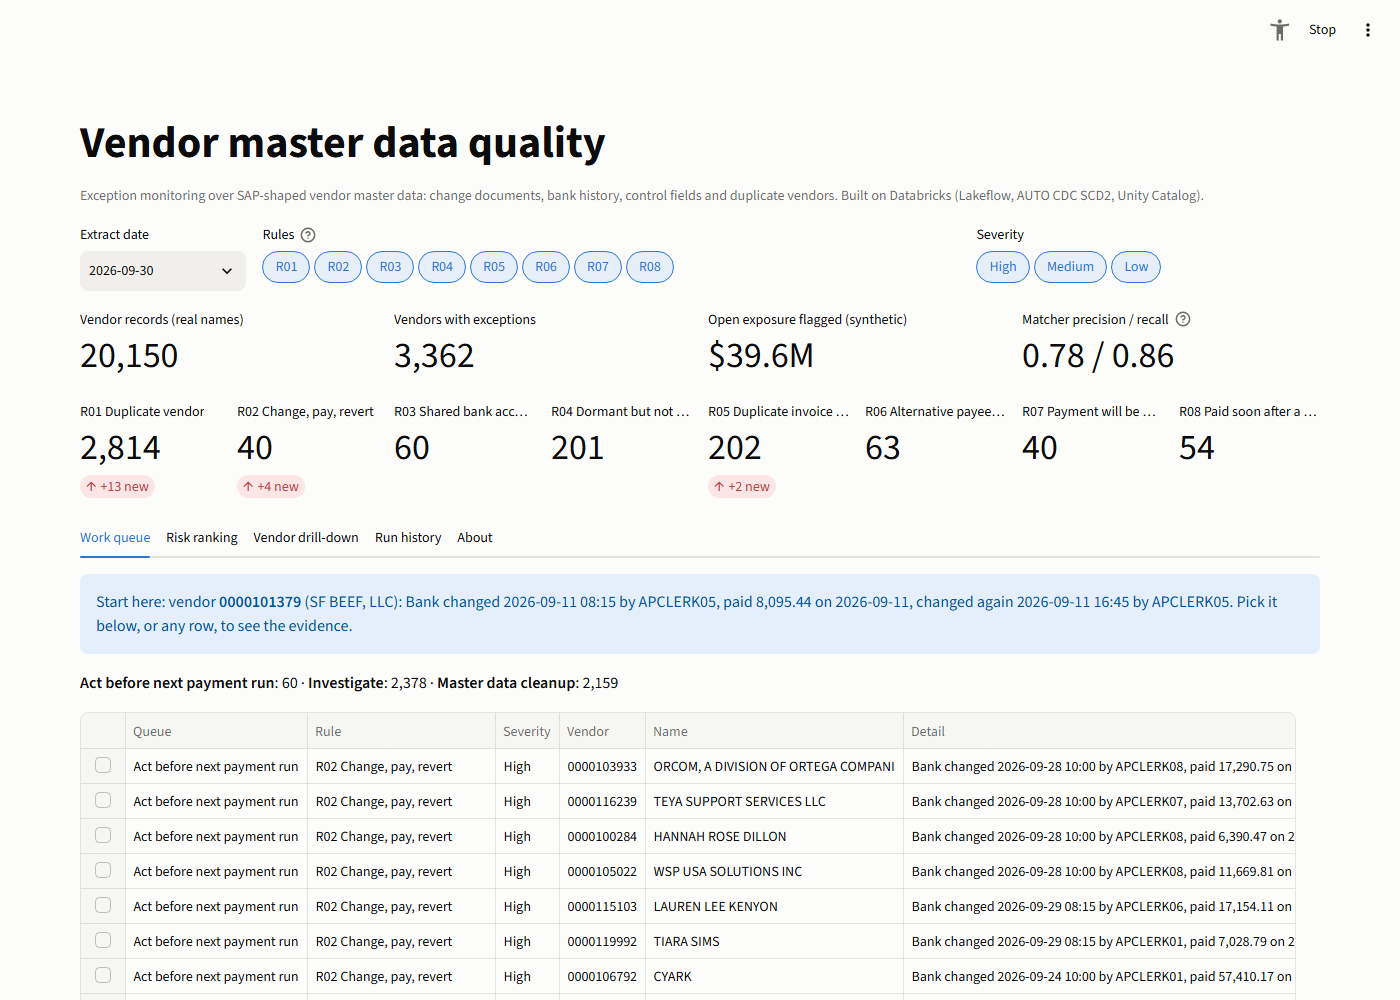
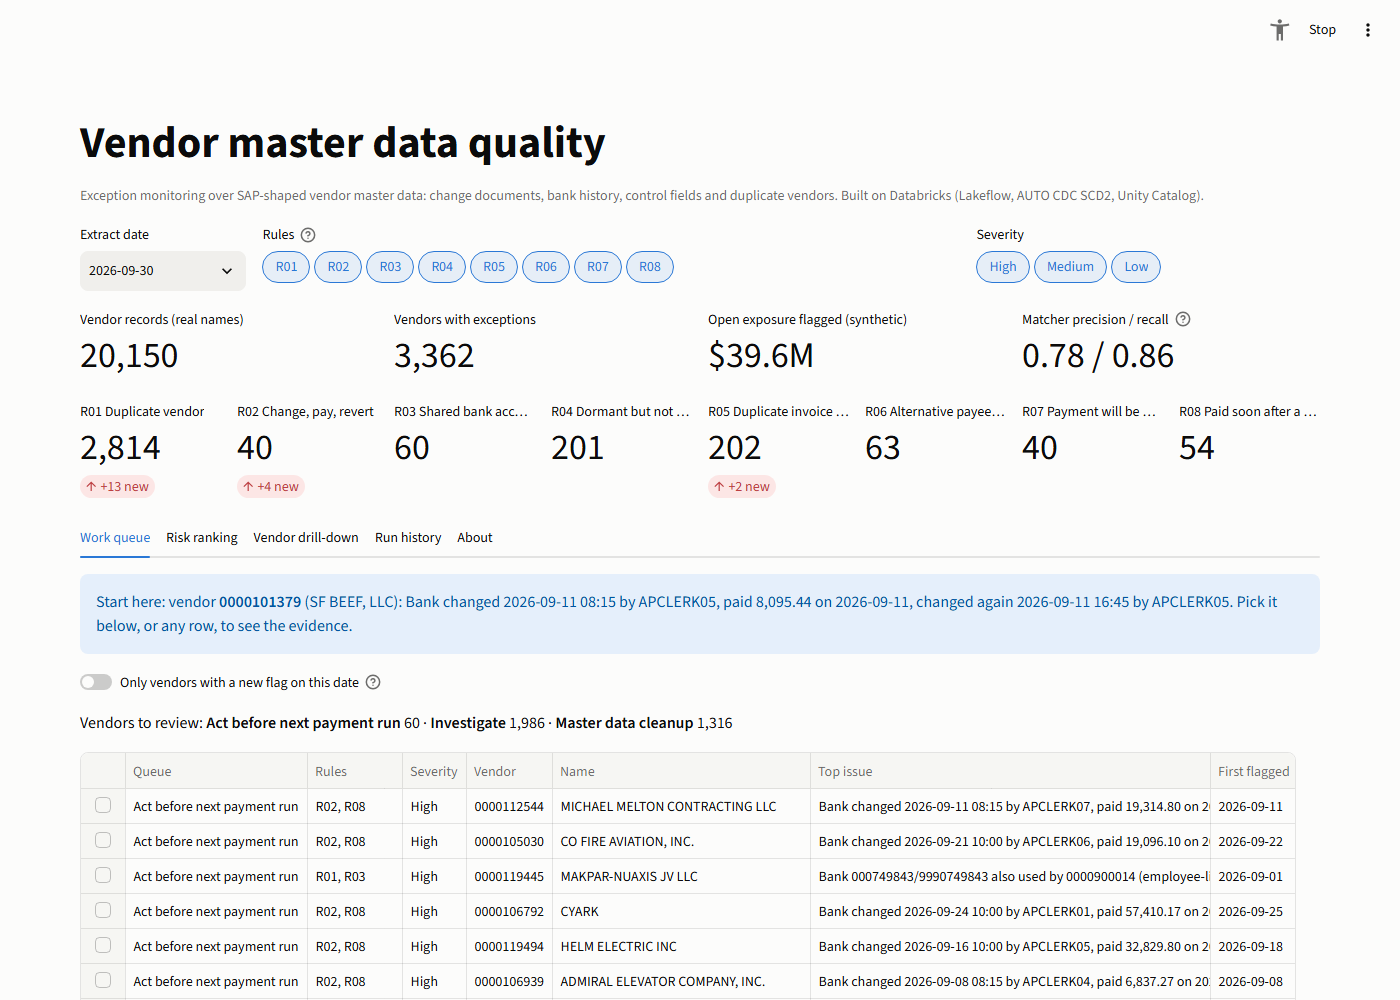
Work queue: one row per vendor, new-flags filter; README product gaps
- The queue listed every rule hit, so a duplicate pair showed twice and a
  change-pay-revert vendor three times. Cases are now per vendor, placed by
  the most urgent rule.
- Toggle for vendors newly flagged on the selected date.
- README: why R08 matters despite dual control; case handling and pre-run
  alerts listed as what a production version needs.

Changed region(s): [[0.0614, 0.651, 0.9214, 1.0]]

diff --git a/app/streamlit_app.py b/app/streamlit_app.py
@@ -231,18 +231,34 @@ with queue_tab:
     if len(r02):
         st.info(f"Start here: vendor **{r02.LIFNR.iloc[0]}** ({r02.NAME1.iloc[0]}): "
                 f"{r02.detail.iloc[0]}. Pick it below, or any row, to see the evidence.")
-    counts = shown.groupby("queue").size()
-    st.write("  ·  ".join(f"**{qn[2:]}**: {counts.get(qn, 0):,}" for qn in QUEUES))
-    view = shown.assign(rule=shown.rule_id + " " + shown.rule_id.map(RULES),
-                        queue_name=shown.queue.str[2:])
+    # One case per vendor: an analyst works the vendor, not each rule hit. The case takes the
+    # most urgent queue among its rules, and its detail line comes from that rule.
+    new_only = st.toggle("Only vendors with a new flag on this date",
+                         help="A rule first flagged the vendor on this extract date.")
+    ranked = shown.assign(new=pd.to_datetime(shown.first_flagged) > prev_day).sort_values(
+        ["queue", "tier", "exposure"], ascending=[True, False, False])
+    cases = (ranked.groupby("LIFNR", sort=False)
+             .agg(queue=("queue", "first"), severity=("severity", "first"),
+                  rules=("rule_id", lambda s: ", ".join(sorted(set(s)))),
+                  NAME1=("NAME1", "first"), detail=("detail", "first"),
+                  first_flagged=("first_flagged", "min"), new=("new", "any"),
+                  exposure=("exposure", "first"))
+             .reset_index())
+    if new_only:
+        cases = cases[cases.new]
+    cases["days_open"] = (pd.Timestamp(day) - pd.to_datetime(cases.first_flagged)).dt.days
+    counts = cases.groupby("queue").size()
+    st.write("Vendors to review: " + "  ·  ".join(f"**{qn[2:]}** {counts.get(qn, 0):,}"
+                                                   for qn in QUEUES))
+    view = cases.assign(queue_name=cases.queue.str[2:]).reset_index(drop=True)
     picked = st.dataframe(
-        view[["queue_name", "rule", "severity", "LIFNR", "NAME1", "detail", "first_flagged",
+        view[["queue_name", "rules", "severity", "LIFNR", "NAME1", "detail", "first_flagged",
               "days_open", "exposure"]],
         hide_index=True, width="stretch", height=380, on_select="rerun",
         selection_mode="single-row", key="queue_table",
         column_config={
-            "queue_name": "Queue", "rule": "Rule", "severity": "Severity", "LIFNR": "Vendor",
-            "NAME1": "Name", "detail": st.column_config.TextColumn("Detail", width="large"),
+            "queue_name": "Queue", "rules": "Rules", "severity": "Severity", "LIFNR": "Vendor",
+            "NAME1": "Name", "detail": st.column_config.TextColumn("Top issue", width="large"),
             "first_flagged": st.column_config.DateColumn("First flagged", format="YYYY-MM-DD"),
             "days_open": st.column_config.NumberColumn("Days open", width="small"),
             "exposure": st.column_config.NumberColumn("Open exposure", format="dollar"),
@@ -320,7 +336,7 @@ with history_tab:
                                            stroke="#fcfcfb", strokeWidth=2))
                  .properties(title=f"{rule} {RULES[rule]}", height=170)
                  .configure_view(stroke=None).configure_title(anchor="start", fontSize=13))
-        grid[i % 2].altair_chart(chart, use_container_width=True)
+        grid[i % 2].altair_chart(chart, width="stretch")
     with st.expander("Table view"):
         st.dataframe(rh.assign(rule=rh.rule_id + " " + rh.rule_id.map(RULES)),
                      hide_index=True, width="stretch",

diff --git a/README.md b/README.md
@@ -71,12 +71,14 @@ databricks bundle run export_demo             # gold -> Parquet for the demo
 | R05 Duplicate invoice check off | LFB1-REPRF blank | LFB1-REPRF | Medium |
 | R06 Alternative payee / one-time vendor | LNRZA or LNRZB set, XZEMP set, or a one-time account paid twice or more in 90 days | LFA1-LNRZA, XZEMP, XCPDK; LFB1-LNRZB; ACDOCA KZ | Medium |
 | R07 Payment will be held | Unconfirmed sensitive change (CONFS) with items due by extract date + 7 days. F110 holds these payments, so the job is to confirm or reject the change. | LFA1/LFB1-CONFS; ACDOCA NETDT, AUGBL | Medium |
-| R08 Paid soon after a bank change | A bank change (not a first setup) followed by a clearing payment within 14 days. Check the change was verified by call-back. Same-day payments count, since ACDOCA carries no payment time. | CDHDR/CDPOS on LFBK; ACDOCA BLART KZ | Medium |
+| R08 Paid soon after a bank change | A bank change (not a first setup) followed by a clearing payment within 14 days. Dual control (FK08) confirms the entry, not that the request really came from the supplier, so check it was verified by call-back. Same-day payments count, since ACDOCA carries no payment time. | CDHDR/CDPOS on LFBK; ACDOCA BLART KZ | Medium |
 
 **Priority score.** `exposure` = sum of absolute open item amounts (ACDOCA HSL, AUGBL blank) for the
 vendor. The score is exposure × the highest severity tier among its exceptions (High 3, Medium 2,
 Low 1), with no other weights. R01 dominates by volume, because the dataset holds about 2,900 real
-duplicate pairs, and dormant vendors have no exposure. So the demo opens on a **work queue**:
+duplicate pairs, and dormant vendors have no exposure. So the demo opens on a **work queue** with
+one row per vendor (all its rules together), placed by its most urgent rule, with a filter for vendors
+newly flagged that day:
 
 1. **Act before the next payment run:** R02, and shared accounts linked to an employee.
 2. **Investigate:** R07, R08, other shared accounts, R06, and duplicate pairs scoring 95 or more.
@@ -173,6 +175,10 @@ I_SupplierCompany.
 - Read CDHDR/CDPOS directly.
 - Pull F110 payment run data (REGUH/REGUP), so R02 can check the paid-to bank and the payment time.
 - Respect bank validity dates as delivered by the source (BUT0BK), including changes made after the fact.
+- Add case handling: an owner, status and decision per case, stored in a Delta table. Closed cases
+  would stay closed, and pairs reviewed as "not a duplicate" would stop coming back. The demo reads
+  exported files and has no write-back.
+- Alert the payment team about queue 1 before each F110 run.
 - Add the rules that reviewers asked for:
   - duplicate or missing tax ID
   - employee-to-vendor matching against HR data (PA0009/PA0006)
